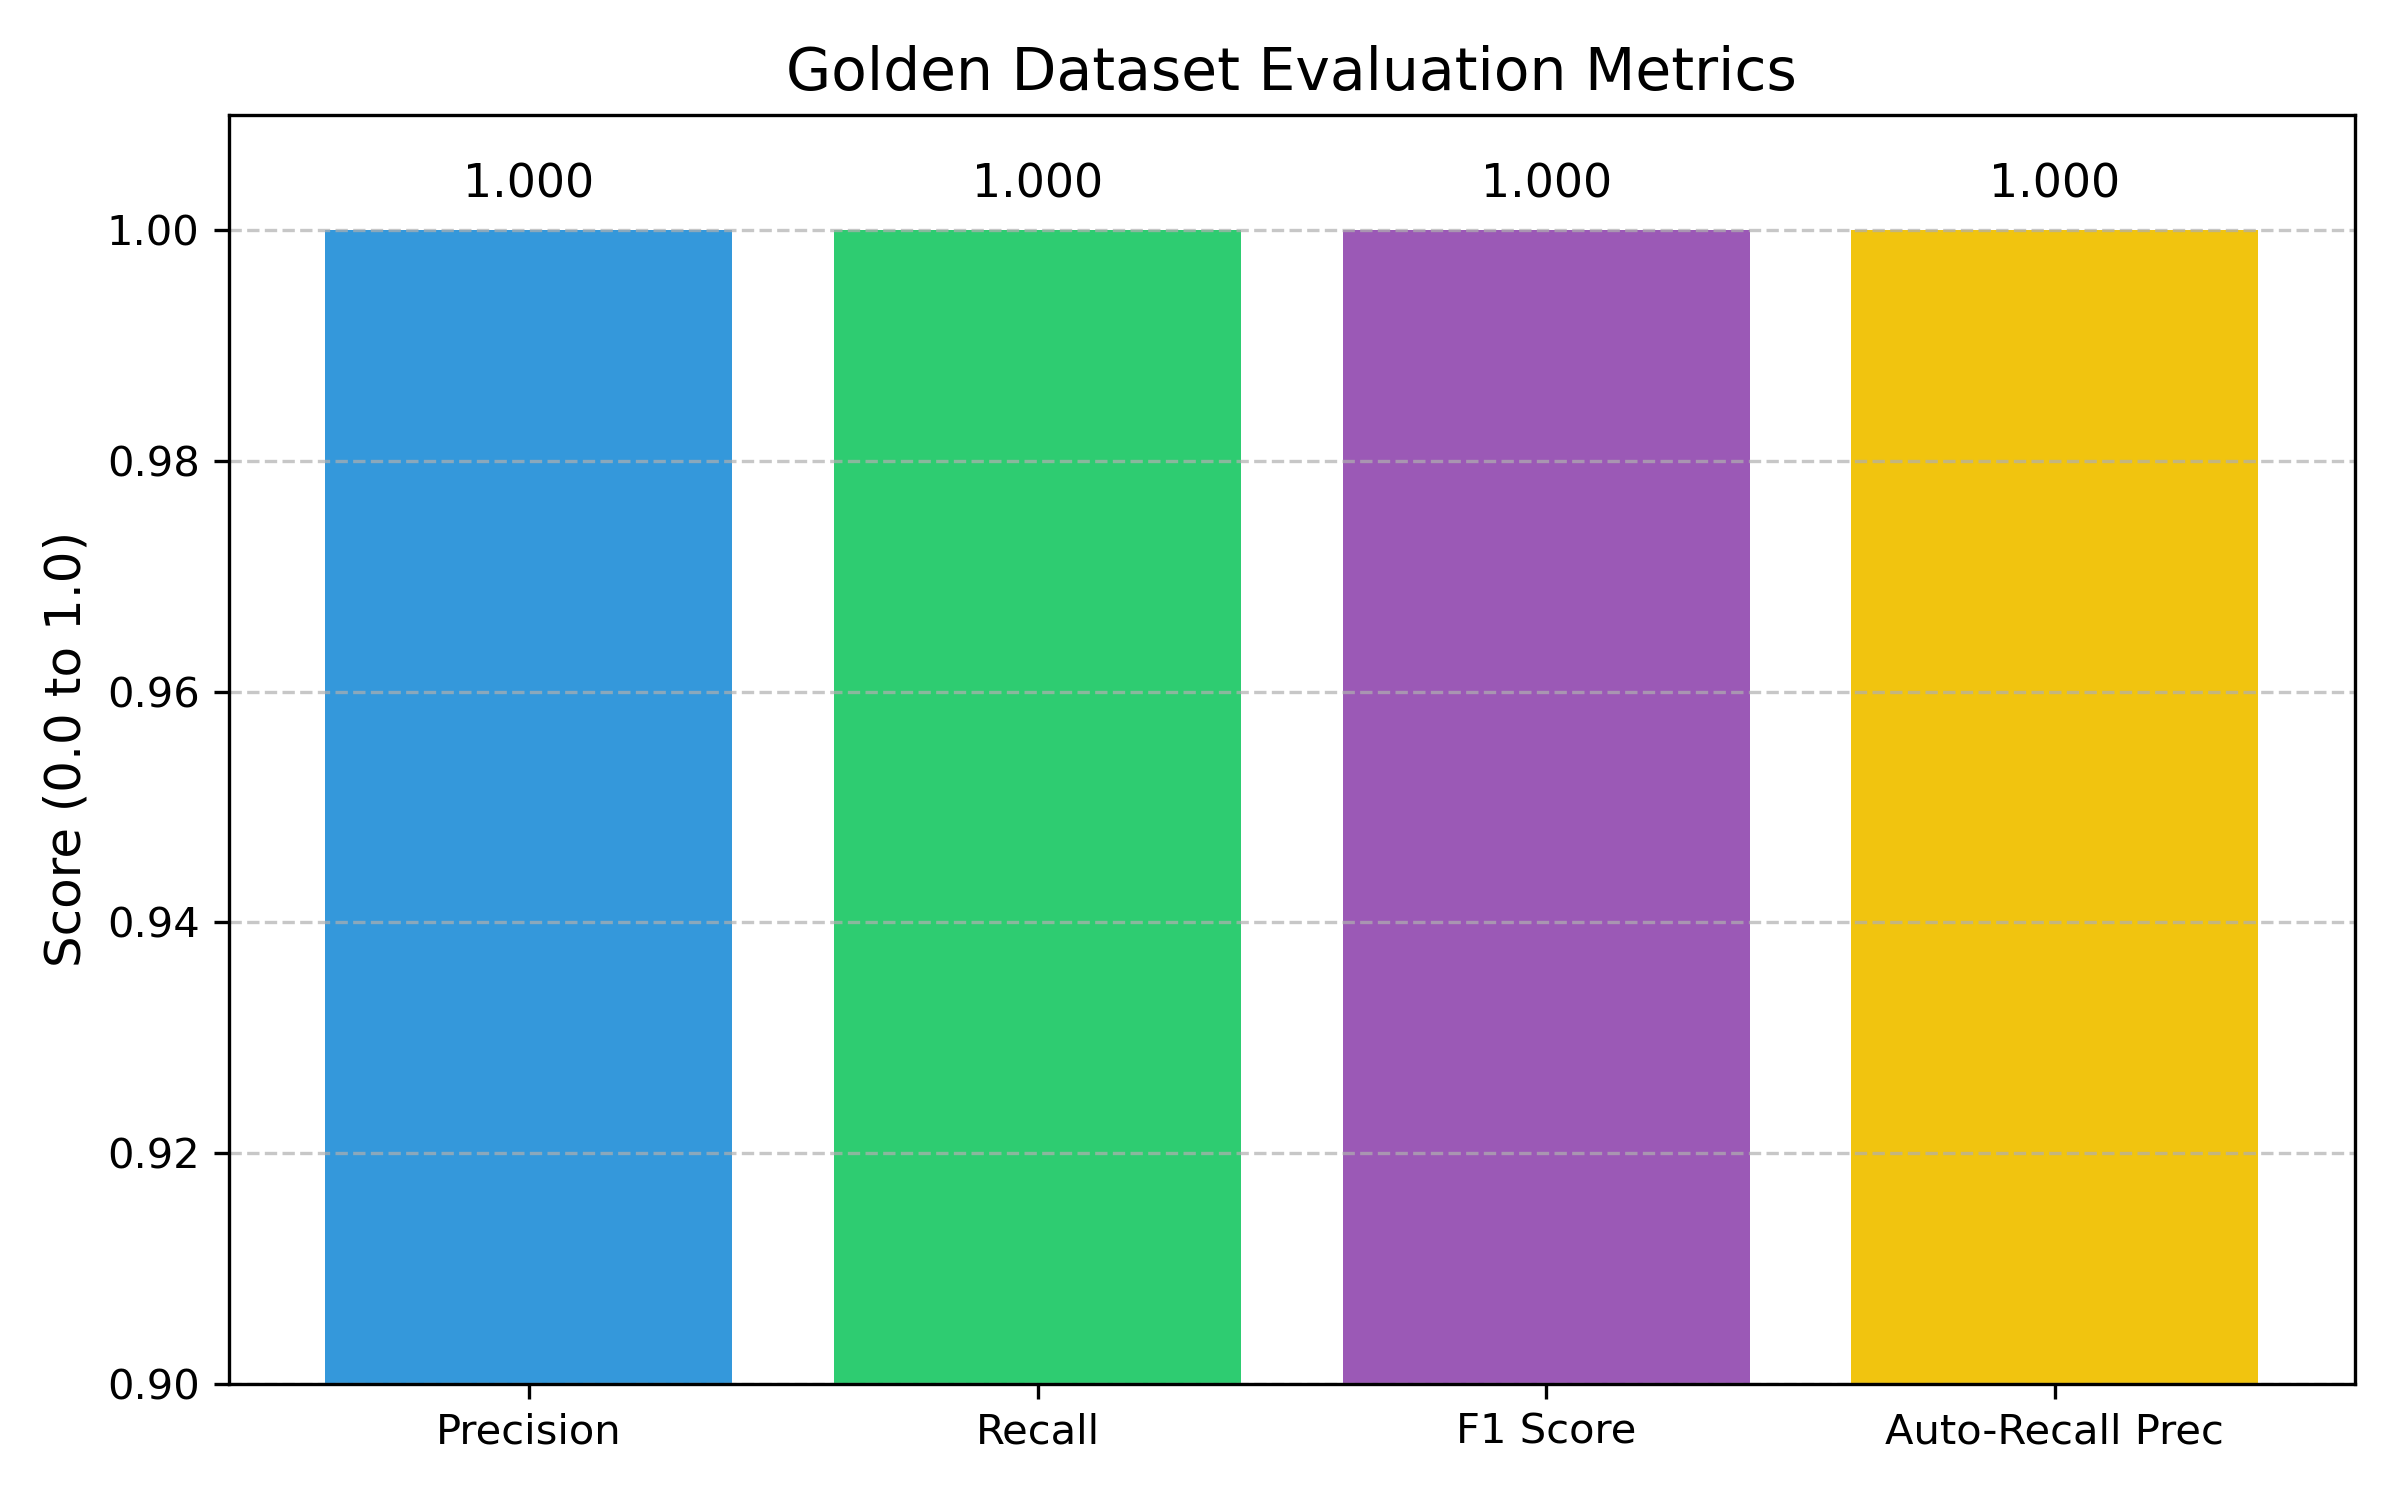
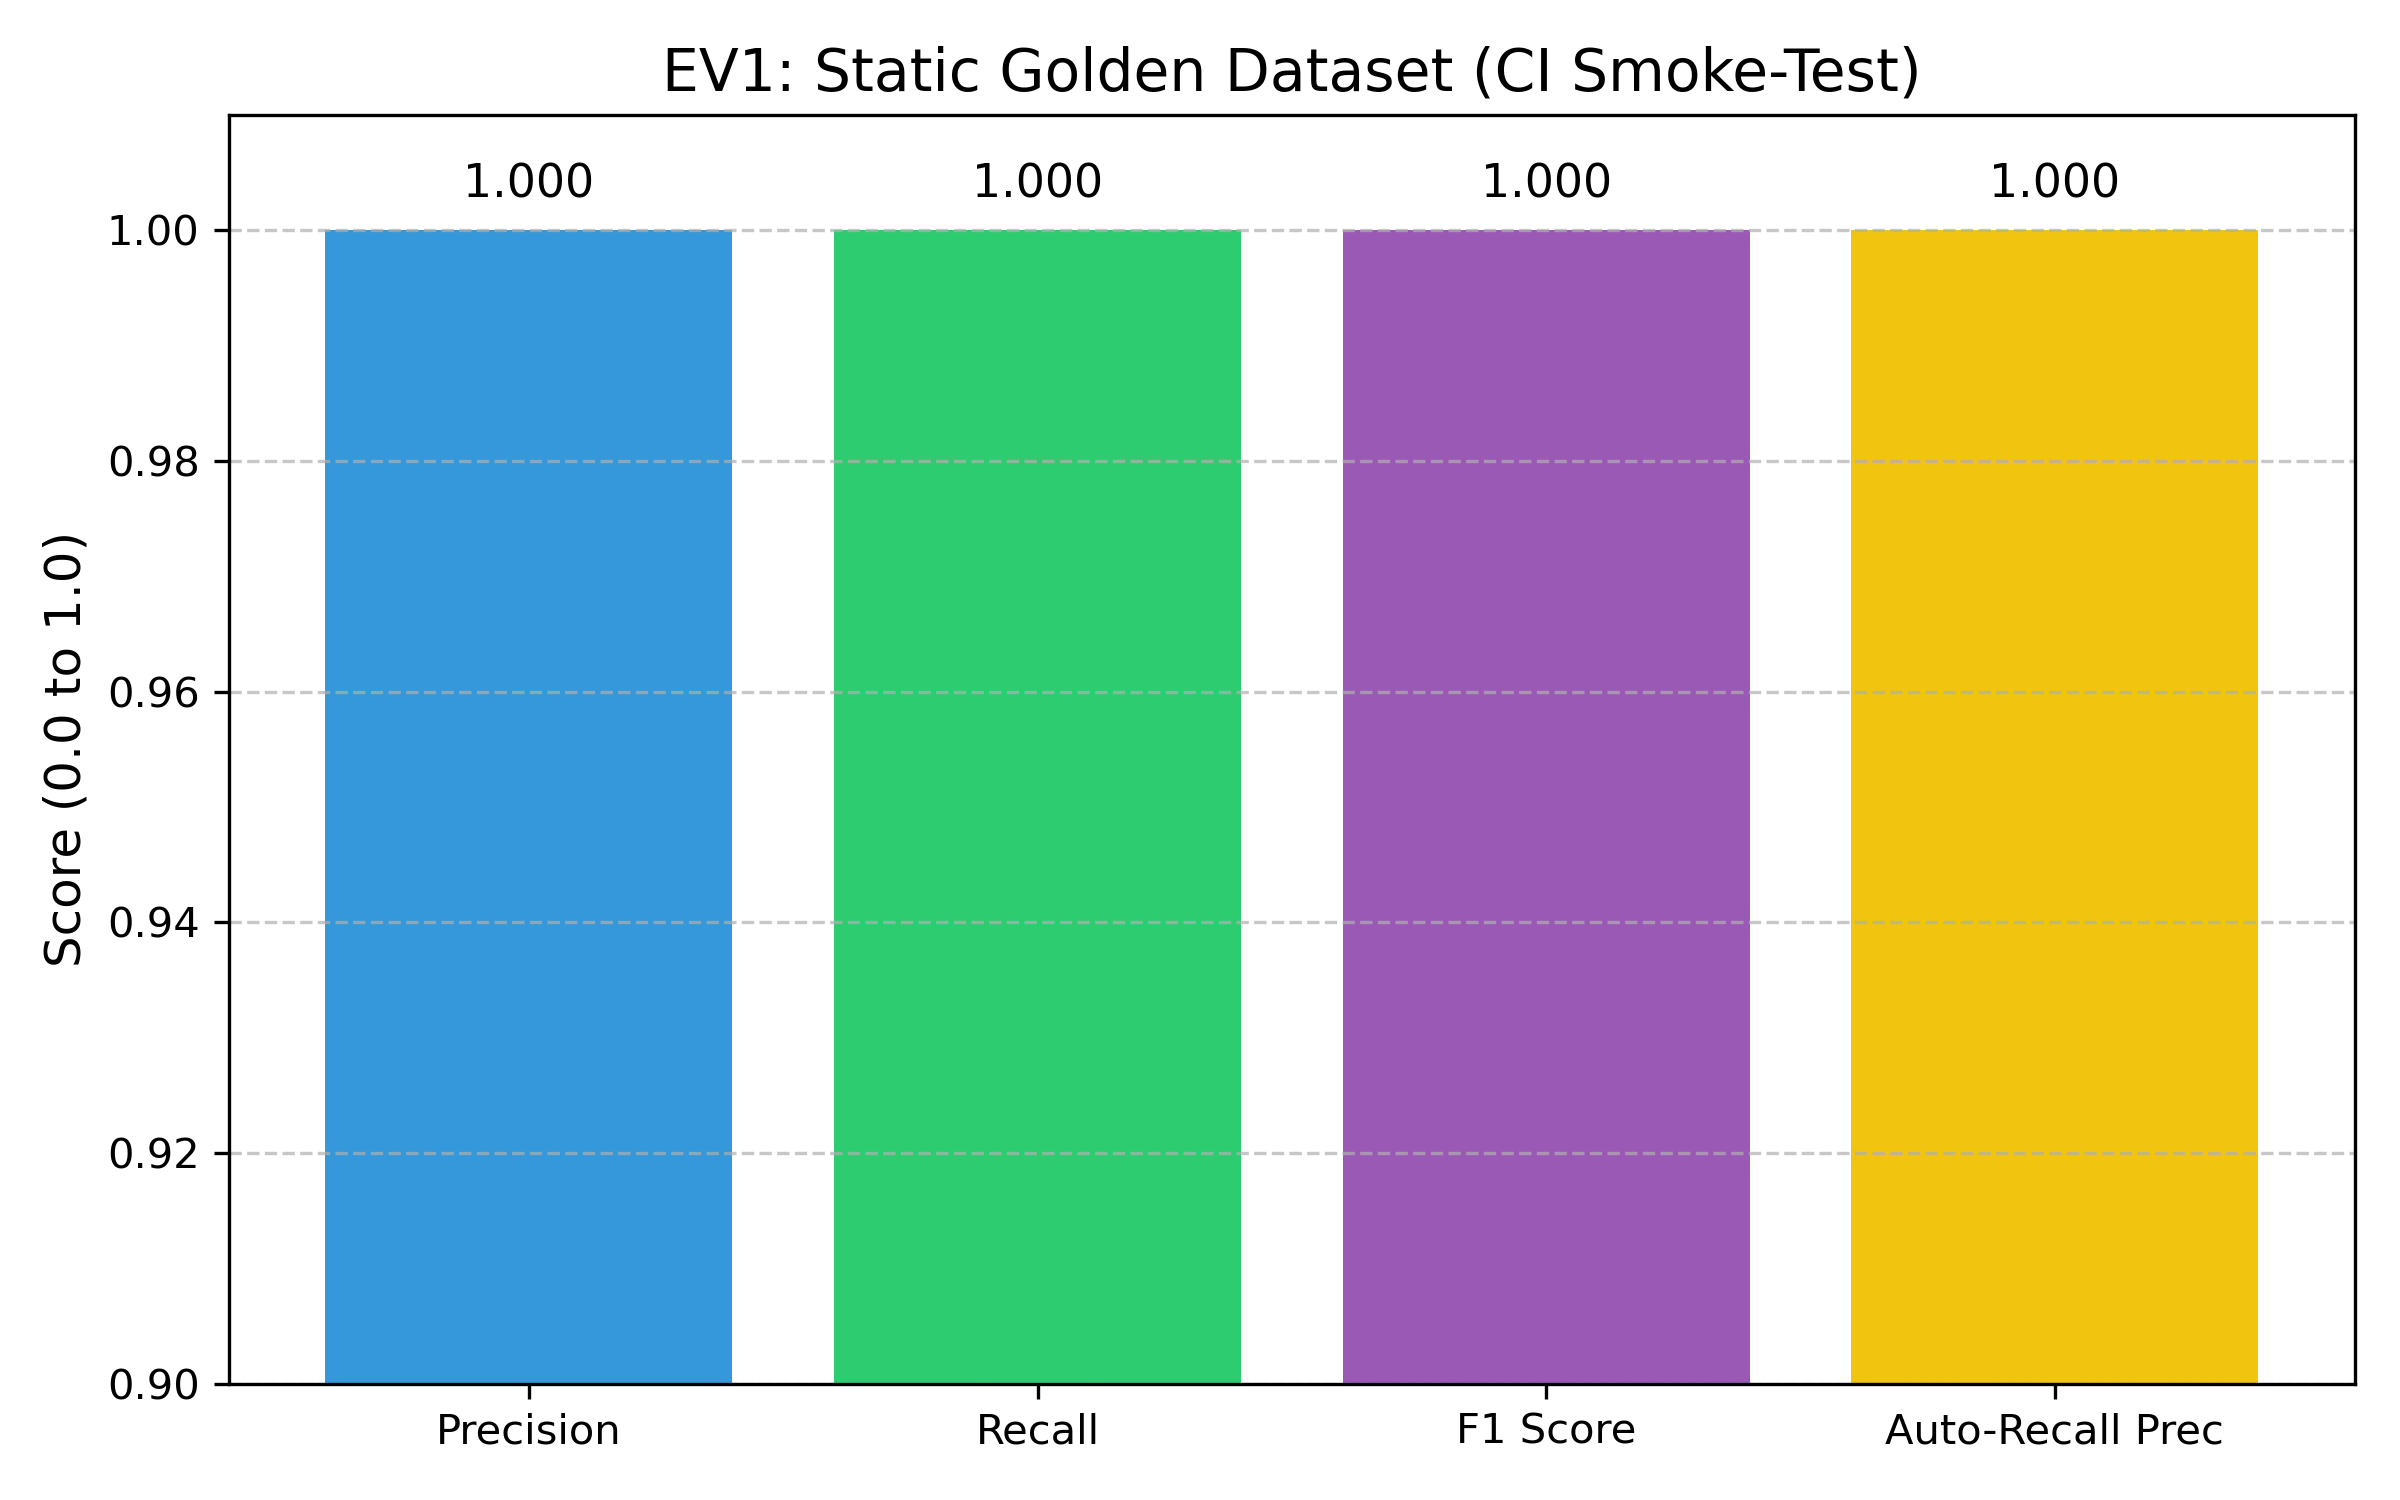
docs: generate advanced visualizations for system telemetry and ev2 metrics

Changed region(s): [[0.2812, 0.0307, 0.8125, 0.0613]]

diff --git a/scripts/update_metrics.py b/scripts/update_metrics.py
@@ -27,7 +27,21 @@ def main():
     plt.savefig('docs/images/ann_latency.png', dpi=300)
     plt.close()
 
-    # Plot 2: Golden Eval Metrics
+    # Plot 2: Pipeline Latency Breakdown
+    labels = ['p50 Latency', 'p95 Latency', 'p99 Latency']
+    l_values = [data['throughput']['p50_ms'], data['throughput']['p95_ms'], data['throughput']['p99_ms']]
+    
+    plt.figure(figsize=(6, 5))
+    plt.plot(labels, l_values, marker='s', color='#d35400', linewidth=2, markersize=8)
+    plt.fill_between(labels, l_values, color='#e67e22', alpha=0.3)
+    plt.title('eBPF to Go Pipeline Latency Profile', fontsize=14)
+    plt.ylabel('Milliseconds (ms)', fontsize=12)
+    plt.grid(True, linestyle='--', alpha=0.6)
+    plt.tight_layout()
+    plt.savefig('docs/images/latency_profile.png', dpi=300)
+    plt.close()
+
+    # Plot 3: Golden Eval Metrics (Keep as baseline comparison)
     metrics = ['Precision', 'Recall', 'F1 Score', 'Auto-Recall Prec']
     values = [
         data['evals']['golden_precision'],
@@ -38,7 +52,7 @@ def main():
 
     plt.figure(figsize=(8, 5))
     bars = plt.bar(metrics, values, color=['#3498db', '#2ecc71', '#9b59b6', '#f1c40f'])
-    plt.title('Golden Dataset Evaluation Metrics', fontsize=14)
+    plt.title('EV1: Static Golden Dataset (CI Smoke-Test)', fontsize=14)
     plt.ylabel('Score (0.0 to 1.0)', fontsize=12)
     plt.ylim(0.9, 1.01)
     for bar in bars:
@@ -49,22 +63,26 @@ def main():
     plt.savefig('docs/images/eval_metrics.png', dpi=300)
     plt.close()
 
-    # Plot 3: Trajectory Eval Metrics (EV2)
-    traj_metrics = ['Adversarial\nSurvival', 'Legitimate\nSuccess']
-    # Normalizing survival (lower is better, but we plot steps survived out of 50)
-    # Actually, let's plot "Deterrence Rate" (1 - mean/50) and "Success Rate"
-    deterrence = 1.0 - (data['trajectory_evals']['mean_steps_survived'] / 50.0)
-    success_rate = data['trajectory_evals']['task_success_rate']
+    # Plot 4: Trajectory Eval Metrics (EV2) - More complex stacked/side-by-side
+    fig, (ax1, ax2) = plt.subplots(1, 2, figsize=(10, 5))
     
-    plt.figure(figsize=(6, 5))
-    bars2 = plt.bar(traj_metrics, [deterrence, success_rate], color=['#e74c3c', '#2ecc71'])
-    plt.title('Trajectory Evaluation (EV2)', fontsize=14)
-    plt.ylabel('Rate (0.0 to 1.0)', fontsize=12)
-    plt.ylim(0.0, 1.1)
-    for bar in bars2:
-        yval = bar.get_height()
-        plt.text(bar.get_x() + bar.get_width()/2.0, yval + 0.02, f'{yval:.3f}', ha='center', va='bottom', fontsize=11)
-    plt.grid(True, axis='y', linestyle='--', alpha=0.7)
+    # Subplot A: Adversarial Survival
+    deterrence = 1.0 - (data['trajectory_evals']['mean_steps_survived'] / 50.0)
+    ax1.bar(['Deterrence Rate'], [deterrence], color='#e74c3c')
+    ax1.set_title('Red-Team Neutralization', fontsize=12)
+    ax1.set_ylim(0, 1.1)
+    ax1.text(0, deterrence + 0.02, f'{deterrence:.3f}', ha='center', fontsize=11)
+    ax1.grid(True, axis='y', linestyle='--', alpha=0.7)
+
+    # Subplot B: Legitimate Workflow Outcomes
+    success = data['trajectory_evals']['task_success_rate']
+    refusal = data['trajectory_evals']['over_refusals'] / data['trajectory_evals']['legitimate_workflows']
+    
+    wedges, texts, autotexts = ax2.pie([success, refusal], labels=['Task Success', 'Over-Refusal'], 
+                                       autopct='%1.1f%%', colors=['#2ecc71', '#95a5a6'], startangle=90)
+    ax2.set_title('Legitimate Workflow UX Cost', fontsize=12)
+    
+    plt.suptitle('EV2: Stateful Trajectory Metrics', fontsize=14, y=1.05)
     plt.tight_layout()
     plt.savefig('docs/images/trajectory_metrics.png', dpi=300)
     plt.close()
@@ -137,6 +155,10 @@ All dynamically generated policy boundaries are modeled as formal ABAC entities 
 <br>
 <div align="center">
   <img src="docs/images/ann_latency.png" alt="ANN Latency Graph" width="60%">
+</div>
+<br>
+<div align="center">
+  <img src="docs/images/latency_profile.png" alt="Pipeline Latency Graph" width="60%">
 </div>
 <br>
 <div align="center">

diff --git a/README.md b/README.md
@@ -358,6 +358,10 @@ All dynamically generated policy boundaries are modeled as formal ABAC entities 
 </div>
 <br>
 <div align="center">
+  <img src="docs/images/latency_profile.png" alt="Pipeline Latency Graph" width="60%">
+</div>
+<br>
+<div align="center">
   <img src="docs/images/eval_metrics.png" alt="Eval Metrics Graph" width="60%">
 </div>
 <br>